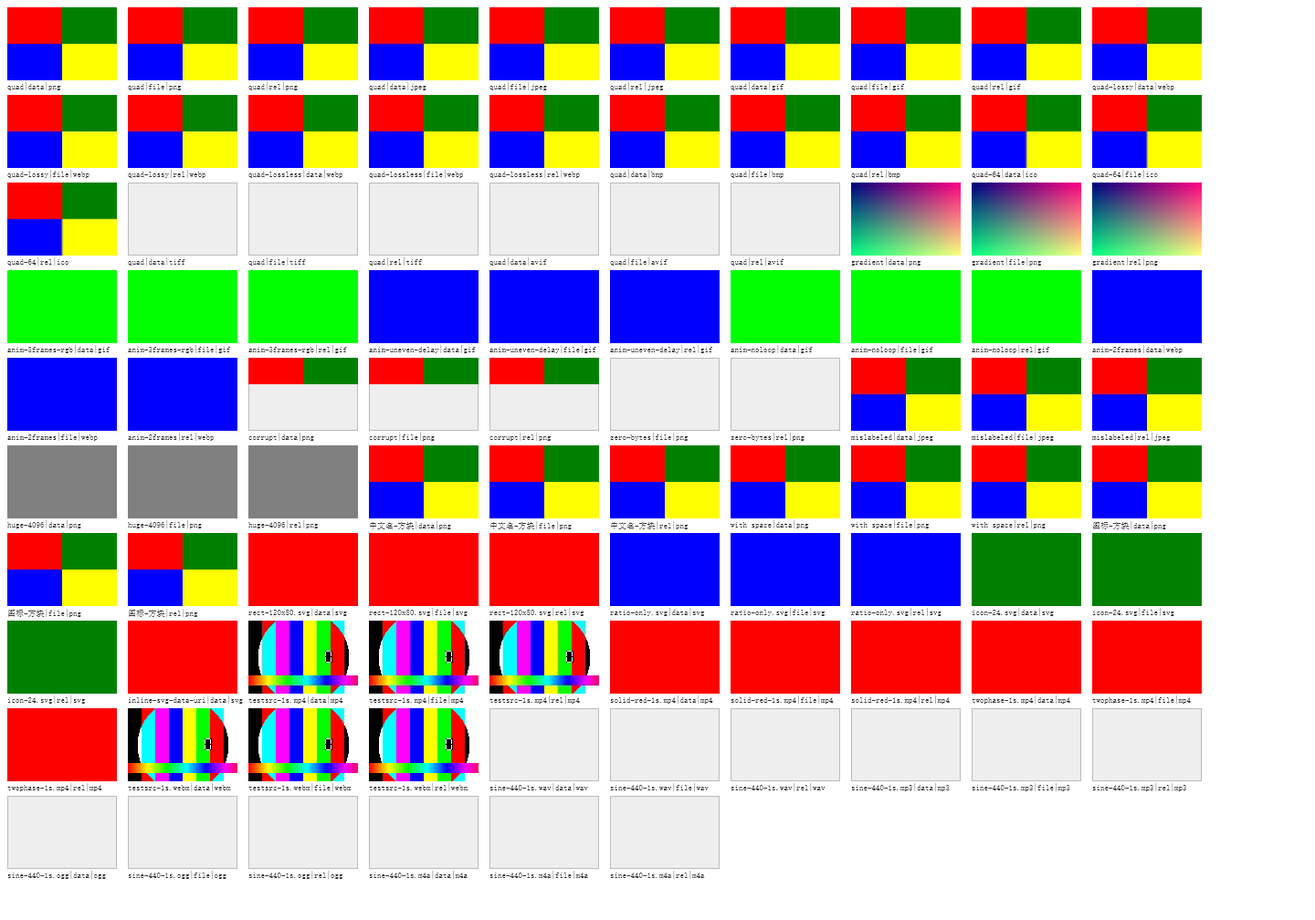
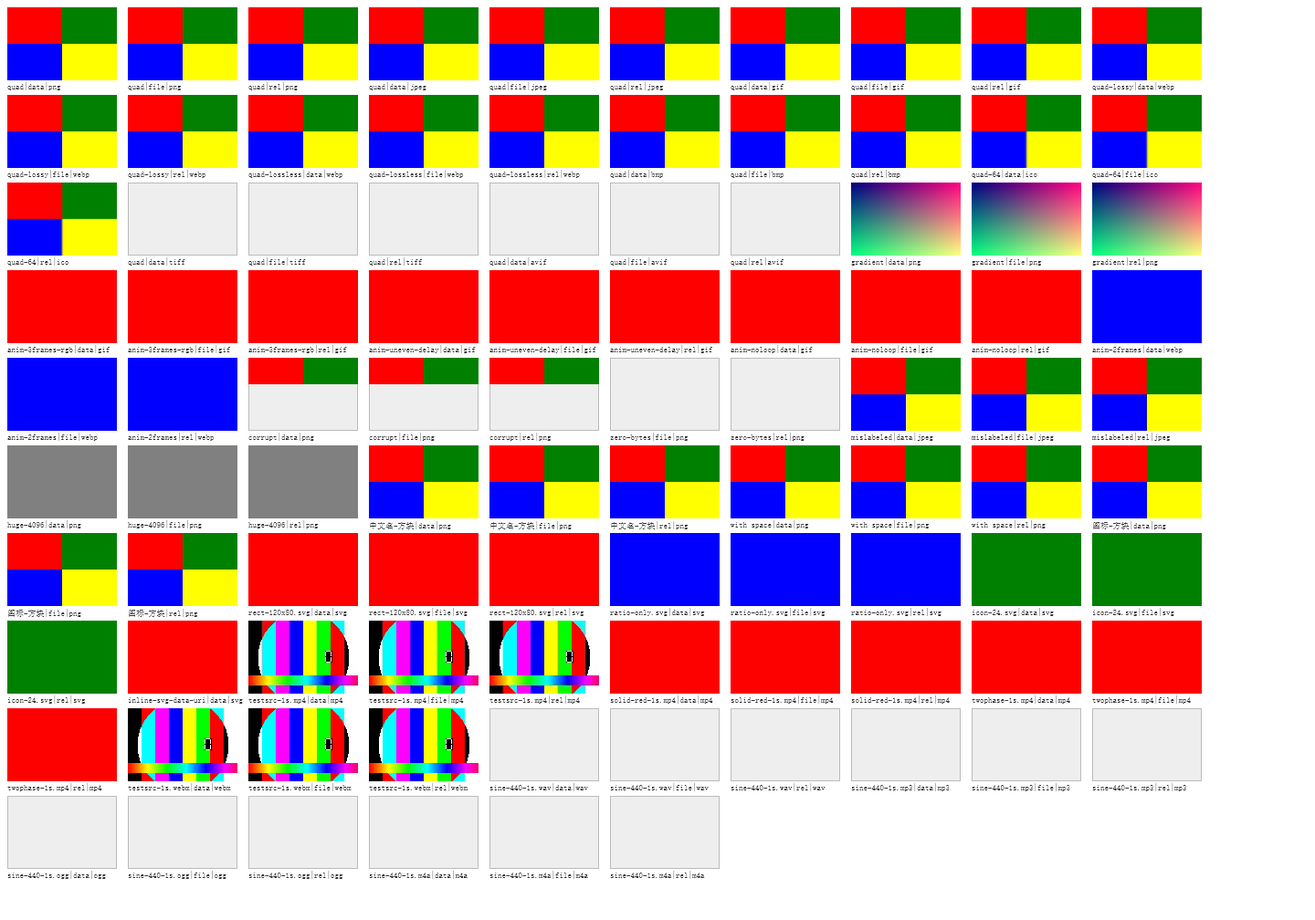
探针 Q7-C：动图连拍改为「按样本声明的帧时长」驱动采样（第 8 处测量伪影根本解法）
## 问题（§9.9 第 8 处测量伪影）
连拍此前是「全局调一个步长」——固定基步长 130/190ms + 固定抖动序列，对所有样本
一视同仁。洞在于**名义步长不成整数倍 ≠ 实际步长不成整数倍**（实际 = 名义 + 每步
渲染开销），`anim-uneven-delay.gif`（Delays=[50,200,100] ⇒ 周期 350ms）因此被锁相：
全量第 3 跑时它的 data/file/rel 三格同时报「最大差异 0」（L4→L3），而同轮其余动图全 L4。

## 修法（cmd/psai/mediaprobe.go，+65 行新函数）
新增 `mediaAnimSteps(man)`：**按样本自己声明的帧时长驱动**
- 数据源是 manifest 的 `delays` 字段（探针此前完全没用它）；
- 对每个**不同周期** P = Σ Delays 生成 3 个步长 P×r，r ∈ {0.37, 0.61, 0.83}——互不
  相同，且刻意避开 1/2、1/3、2/3 这类对称点（否则两帧样本互换相位后又落回同帧）；
  各再叠加互不相同的抖动（−17/+23/−9 ms）；
- 步长按周期**轮转排列**，使每个周期在整个采样窗口里都有 3 个独立的相位推进量；
- 窗口总长 ≈2.1s，远大于最长周期 400ms ⇒ **覆盖完整循环周期**；
- 旧的 130/190ms 固定步长退为**无动画样本时的回退分支**（该路径行为不变）。
- **判据不变**：`framesDiffer` 仍是「任意两帧不同」，真静止样本不受影响。

实测四种周期：`anim-3frames-rgb` / `anim-noloop` 300ms、`anim-uneven-delay` **350ms**、
`anim-2frames.webp` 400ms。

## 验收（连续 3 次全量跑 `cmd/psai -media`）
- 3 次日志均「**与基线一致（无等级下降）**」；
- **384 条等级零变化**（把三次报告的「配置×格式×样本×来源 → 等级」逐格比对，差异 0；
  等级分布恒为 L0=100 / L3=174 / L4=110）。
- 编译/静态检查：`go build ./...` 通过、`go vet ./cmd/psai/` 通过。

## ⚠ 未覆盖（如实记录，不含虚假收敛）
截图 `matrix-*.png` 的**动画帧相位抖动仍在**：它是在**固定的 `settleReal` 时刻**拍的
（静止态 1.5s、播放态 1.0s 后），该时刻与动图帧相位**解耦**、**不经过**连拍采样环节，
故本改动改不动它。实测三次跑动画格中心色仍蓝/绿/红摇摆。属**遗留项**（要稳定截图需让
截图时刻对齐帧边界，引擎未暴露「当前帧号」）。

## 文档（docs/media-format-verification-plan.md）
- §9.9「探测伪影（第 8 处）」行：由「根本解法**方向**」更新为「**已落地**」+ 实现要点与验收；
- §6.2 副作用②：**订正**此前「Q7-C 落地后应按帧收敛」的错误预测，写明截图抖动另源且未收敛；
- §10 的 Q7 行：② 由「未做（属另一轮）」更新为「已另轮落地」。

## 产物（同源：第 3 次跑）
[…]

Changed region(s): [[0.0, 0.2768, 0.8438, 0.3998]]

diff --git a/cmd/psai/mediaprobe.go b/cmd/psai/mediaprobe.go
@@ -680,25 +680,23 @@ func runMediaConfig(cfg mediaConfig, man *manifestDoc, cells []cell, matrixPath,
 	//   样本缺陷。audio 元素不参与动图判据，停掉它不影响任何已有判据。
 	stopAudioPlayback(wv, cells)
 	settleReal(wv, 300*time.Millisecond)
-	// 抖动步长：两轮基步长不同（130ms / 190ms），每步再叠加固定抖动，**相邻步长互不相等**
-	// ⇒ 相位不会每一步回到同一帧。判据本身不变（仍是「任意两帧不同」），真静止的样本
-	// 两轮都没有差异，不会被这层放宽。
-	const animShotCount = 6
-	animJitter := [animShotCount]time.Duration{0, 40, -30, 50, -20, 30}
-	animBase := [2]time.Duration{130 * time.Millisecond, 190 * time.Millisecond}
-	animFrames := make([][]byte, 0, animShotCount*2)
-	for round := 0; round < 2; round++ {
-		if round > 0 {
+	// ★ Q7-C（采样伪影根本解法，2026-10-07）：步长由**样本自己声明的帧时长**驱动，
+	//   不再是全局固定基步长（推导与取舍见 mediaAnimSteps 的说明）。判据不变。
+	animSteps := mediaAnimSteps(man)
+	if len(animSteps) == 0 { // 无动画样本（或 manifest 无 delays）：退回旧口径，行为不变
+		animSteps = []time.Duration{130 * time.Millisecond, 190 * time.Millisecond}
+	}
+	animFrames := make([][]byte, 0, len(animSteps)+1)
+	for i, d := range animSteps {
+		if i > 0 && i%6 == 0 { // 每 6 步让步一次：满负载时给主循环喘息（与旧版两轮让步等效）
 			settleReal(wv, 250*time.Millisecond)
 		}
-		for i := 0; i < animShotCount; i++ {
-			settleReal(wv, animBase[round]+animJitter[i]*time.Millisecond)
-			px, err := renderPixels(wv)
-			if err != nil {
-				return res, err
-			}
-			animFrames = append(animFrames, px)
+		settleReal(wv, d)
+		px, err := renderPixels(wv)
+		if err != nil {
+			return res, err
 		}
+		animFrames = append(animFrames, px)
 	}
 	probes3, _, err := collectPage(wv, cells)
 	if err != nil {
@@ -927,6 +925,71 @@ func settleWall(wv *webkit.WebView, d time.Duration) {
 		driveEventLoop(wv, int64(step/time.Millisecond))
 		time.Sleep(step)
 	}
+}
+
+// mediaAnimSteps 按**样本自己声明的帧时长**生成动图连拍步长（Q7-C：采样伪影根本解法）。
+//
+// 背景（§9.9 第 8 处测量伪影）：旧实现是「全局调一个步长」——基步长 130/190ms +
+// 固定抖动序列，对所有样本一视同仁。洞在于**名义步长不成整数倍 ≠ 实际步长不成整数倍**
+// （实际步长 = 名义步长 + 每步渲染开销），`anim-uneven-delay.gif`（Delays=[50,200,100]
+// ⇒ 周期 350ms）因此被锁相：全量第 3 跑时它的 data/file/rel 三格同时报「最大差异 0」
+// （L4→L3），而同轮其余动图全 L4。
+//
+// 现在改为「按样本声明的帧时长驱动」：对每个**不同周期** P = Σ Delays 生成 3 个步长
+// P×r，r ∈ {0.37, 0.61, 0.83}——互不相同，且刻意避开 1/2、1/3、2/3 这类对称点
+//
+//	（否则两帧样本互换相位后又落回同帧），各再叠加互不相同的抖动。步长按周期**轮转排列**，
+//	使每个周期在整个采样窗口里都有 3 个独立的相位推进量；窗口总长（≈2.1s）远大于最长
+//	周期（400ms）⇒ 覆盖完整循环周期。判据不变（framesDiffer 仍是「任意两帧不同」），
+//	真静止的样本依旧无差异。
+func mediaAnimSteps(man *manifestDoc) []time.Duration {
+	if man == nil {
+		return nil
+	}
+	const maxPeriods = 6 // 上限：周期种类过多时只取前几种，避免连拍窗口无限膨胀
+	var periods []time.Duration
+	seen := map[int64]bool{}
+	for _, s := range man.Samples {
+		if s.Kind != "animated" || len(s.Delays) == 0 {
+			continue
+		}
+		sum := 0
+		for _, d := range s.Delays {
+			sum += d
+		}
+		if sum <= 0 || seen[int64(sum)] {
+			continue
+		}
+		seen[int64(sum)] = true
+		periods = append(periods, time.Duration(sum)*time.Millisecond)
+		if len(periods) >= maxPeriods {
+			break
+		}
+	}
+	if len(periods) == 0 {
+		return nil
+	}
+	ratios := [3]float64{0.37, 0.61, 0.83}
+	jitter := [3]time.Duration{-17 * time.Millisecond, 23 * time.Millisecond, -9 * time.Millisecond}
+	perPeriod := make([][3]time.Duration, 0, len(periods))
+	for _, p := range periods {
+		var st [3]time.Duration
+		for i, r := range ratios {
+			d := time.Duration(float64(p)*r) + jitter[i]
+			if d < 40*time.Millisecond { // 下限：步长过短时渲染开销占主导，相位不可控
+				d = 40 * time.Millisecond
+			}
+			st[i] = d
+		}
+		perPeriod = append(perPeriod, st)
+	}
+	out := make([]time.Duration, 0, len(perPeriod)*len(ratios))
+	for round := 0; round < len(ratios); round++ { // 轮转：每个周期每轮贡献一个步长
+		for _, st := range perPeriod {
+			out = append(out, st[round])
+		}
+	}
+	return out
 }
 
 func renderPixels(wv *webkit.WebView) ([]byte, error) {

diff --git a/dev/media/out/report.md b/dev/media/out/report.md
@@ -1,8 +1,8 @@
-# 媒体格式真实可用性报告（2026-10-07 22:00 bc62320）
+# 媒体格式真实可用性报告（2026-10-07 22:10 9e1116d）
 
 ## 环境
 
-配置：Browser / Toolkit+DenyExternal / Toolkit+AllowHostResolved / Toolkit+AllowAll ｜ 引擎：bc62320 ｜ 样本：本地脚本生成、不入库（决策 5）｜ 模型：L0–L4（文档 §2）
+配置：Browser / Toolkit+DenyExternal / Toolkit+AllowHostResolved / Toolkit+AllowAll ｜ 引擎：9e1116d ｜ 样本：本地脚本生成、不入库（决策 5）｜ 模型：L0–L4（文档 §2）
 
 复现：`python dev/media/gen_samples.py` → `cmd/psai -media`（本机按需，不入 CI 门禁——决策 6）
 
@@ -257,14 +257,14 @@
 | Toolkit+DenyExternal | svg | rect-120x80.svg | rel | ❌ | ❌ | ❌ | ❌ | — | **L0** | 资源策略 deny-external 拒绝该引用（预期，非缺陷） |
 | Toolkit+AllowHostResolved | svg | rect-120x80.svg | rel | ✅ | ✅ | ✅ | ✅ | — | **L3** |  |
 | Toolkit+AllowAll | svg | rect-120x80.svg | rel | ✅ | ✅ | ✅ | ✅ | — | **L3** |  |
-| Browser | m4a | sine-440-1s.m4a | data | ✅ | ✅ | — | ✅ | — | **L4** | 音频输出：交付 49041 帧、PCM 主峰 439.88Hz（期望 440Hz，判据 A）；play() 后 500ms currentTime=0.47s、结束时 1.00s（TC-M-602） |
+| Browser | m4a | sine-440-1s.m4a | data | ✅ | ✅ | — | ✅ | — | **L4** | 音频输出：交付 49041 帧、PCM 主峰 439.88Hz（期望 440Hz，判据 A）；play() 后 500ms currentTime=0.42s、结束时 1.00s（TC-M-602） |
 | Toolkit+DenyExternal | m4a | sine-440-1s.m4a | data | ✅ | ✅ | — | ✅ | — | **L4** | 音频输出：交付 49041 帧、PCM 主峰 439.88Hz（期望 440Hz，判据 A）；play() 后 500ms currentTime=1.00s、结束时 1.00s（TC-M-602） |
-| Toolkit+AllowHostResolved | m4a | sine-440-1s.m4a | data | ✅ | ✅ | — | ✅ | — | **L4** | 音频输出：交付 49041 帧、PCM 主峰 439.88Hz（期望 440Hz，判据 A）；play() 后 500ms currentTime=0.49s、结束时 1.00s（TC-M-602） |
-| Toolkit+AllowAll | m4a | sine-440-1s.m4a | data | ✅ | ✅ | — | ✅ | — | **L4** | 音频输出：交付 49041 帧、PCM 主峰 439.88Hz（期望 440Hz，判据 A）；play() 后 500ms currentTime=0.49s、结束时 1.00s（TC-M-602） |
-| Browser | m4a | sine-440-1s.m4a | file | ✅ | ✅ | — | ✅ | — | **L4** | 音频输出：交付 49041 帧、PCM 主峰 439.88Hz（期望 440Hz，判据 A）；play() 后 500ms currentTime=0.27s、结束时 1.00s（TC-M-602） |
+| Toolkit+AllowHostResolved | m4a | sine-440-1s.m4a | data | ✅ | ✅ | — | ✅ | — | **L4** | 音频输出：交付 49041 帧、PCM 主峰 439.88Hz（期望 440Hz，判据 A）；play() 后 500ms currentTime=0.42s、结束时 1.00s（TC-M-602） |
+| Toolkit+AllowAll | m4a | sine-440-1s.m4a | data | ✅ | ✅ | — | ✅ | — | **L4** | 音频输出：交付 49041 帧、PCM 主峰 439.88Hz（期望 440Hz，判据 A）；play() 后 500ms currentTime=0.41s、结束时 1.00s（TC-M-602） |
+| Browser | m4a | sine-440-1s.m4a | file | ✅ | ✅ | — | ✅ | — | **L4** | 音频输出：交付 49041 帧、PCM 主峰 439.88Hz（期望 440Hz，判据 A）；play() 后 500ms currentTime=0.23s、结束时 1.00s（TC-M-602） |
 | Toolkit+DenyExternal | m4a | sine-440-1s.m4a | file | ❌ | ❌ | — | ❌ | — | **L0** | 资源策略 deny-external 拒绝该引用（预期，非缺陷）；实测元素 error.code=4（MEDIA_ERR_SRC_NOT_SUPPORTED） |
-| Toolkit+AllowHostResolved | m4a | sine-440-1s.m4a | file | ✅ | ✅ | — | ✅ | — | **L4** | 音频输出：交付 49041 帧、PCM 主峰 439.88Hz（期望 440Hz，判据 A）；play() 后 500ms currentTime=0.26s、结束时 1.00s（TC-M-602） |
-| Toolkit+AllowAll | m4a | sine-440-1s.m4a | file | ✅ | ✅ | — | ✅ | — | **L4** | 音频输出：交付 49041 帧、PCM 主峰 439.88Hz（期望 440Hz，判据 A）；play() 后 500ms currentTime=0.29s、结束时 1.00s（TC-M-602） |
+| Toolkit+AllowHostResolved | m4a | sine-440-1s.m4a | file | ✅ | ✅ | — | ✅ | — | **L4** | 音频输出：交付 49041 帧、PCM 主峰 439.88Hz（期望 440Hz，判据 A）；play() 后 500ms currentTime=0.29s、结束时 1.00s（TC-M-602） |
+| Toolkit+AllowAll | m4a | sine-440-1s.m4a | file | ✅ | ✅ | — | ✅ | — | **L4** | 音频输出：交付 49041 帧、PCM 主峰 439.88Hz（期望 440Hz，判据 A）；play() 后 500ms currentTime=0.28s、结束时 1.00s（TC-M-602） |
 | Browser | m4a | sine-440-1s.m4a | rel | ✅ | ✅ | — | ✅ | — | **L4** | 音频输出：交付 49041 帧、PCM 主峰 439.88Hz（期望 440Hz，判据 A）；play() 后 500ms currentTime=0.00s、结束时 1.00s（TC-M-602） |
 | Toolkit+DenyExternal | m4a | sine-440-1s.m4a | rel | ❌ | ❌ | — | ❌ | — | **L0** | 资源策略 deny-external 拒绝该引用（预期，非缺陷）；实测元素 error.code=4（MEDIA_ERR_SRC_NOT_SUPPORTED） |
 | Toolkit+AllowHostResolved | m4a | sine-440-1s.m4a | rel | ✅ | ✅ | — | ✅ | — | **L4** | 音频输出：交付 49041 帧、PCM 主峰 439.88Hz（期望 440Hz，判据 A）；play() 后 500ms currentTime=0.00s、结束时 1.00s（TC-M-602） |
@@ -281,18 +281,18 @@
 | Toolkit+DenyExternal | mp3 | sine-440-1s.mp3 | rel | ❌ | ❌ | — | ❌ | — | **L0** | 资源策略 deny-external 拒绝该引用（预期，非缺陷）；实测元素 error.code=4（MEDIA_ERR_SRC_NOT_SUPPORTED） |
 | Toolkit+AllowHostResolved | mp3 | sine-440-1s.mp3 | rel | ✅ | ✅ | — | ✅ | — | **L4** | 音频输出：交付 48000 帧、PCM 主峰 439.88Hz（期望 440Hz，判据 A）；play() 后 500ms currentTime=1.00s、结束时 1.00s（TC-M-602） |
 | Toolkit+AllowAll | mp3 | sine-440-1s.mp3 | rel | ✅ | ✅ | — | ✅ | — | **L4** | 音频输出：交付 48000 帧、PCM 主峰 439.88Hz（期望 440Hz，判据 A）；play() 后 500ms currentTime=1.00s、结束时 1.00s（TC-M-602） |
-| Browser | ogg | sine-440-1s.ogg | data | ✅ | ✅ | — | ✅ | — | **L4** | 音频输出：交付 47861 帧、PCM 主峰 439.87Hz（期望 440Hz，判据 A）；play() 后 500ms currentTime=1.00s、结束时 1.00s（TC-M-602） |
+| Browser | ogg | sine-440-1s.ogg | data | ✅ | ✅ | — | ✅ | — | **L4** | 音频输出：交付 47861 帧、PCM 主峰 439.87Hz（期望 440Hz，判据 A）；play() 后 500ms currentTime=0.86s、结束时 1.00s（TC-M-602） |
 | Toolkit+DenyExternal | ogg | sine-440-1s.ogg | data | ✅ | ✅ | — | ✅ | — | **L4** | 音频输出：交付 47861 帧、PCM 主峰 439.87Hz（期望 440Hz，判据 A）；play() 后 500ms currentTime=1.00s、结束时 1.00s（TC-M-602） |
-| Toolkit+AllowHostResolved | ogg | sine-440-1s.ogg | data | ✅ | ✅ | — | ✅ | — | **L4** | 音频输出：交付 47861 帧、PCM 主峰 439.87Hz（期望 440Hz，判据 A）；play() 后 500ms currentTime=1.00s、结束时 1.00s（TC-M-602） |
-| Toolkit+AllowAll | ogg | sine-440-1s.ogg | data | ✅ | ✅ | — | ✅ | — | **L4** | 音频输出：交付 47861 帧、PCM 主峰 439.87Hz（期望 440Hz，判据 A）；play() 后 500ms currentTime=1.00s、结束时 1.00s（TC-M-602） |
-| Browser | ogg | sine-440-1s.ogg | file | ✅ | ✅ | — | ✅ | — | **L4** | 音频输出：交付 47861 帧、PCM 主峰 439.87Hz（期望 440Hz，判据 A）；play() 后 500ms currentTime=0.82s、结束时 1.00s（TC-M-602） |
+| Toolkit+AllowHostResolved | ogg | sine-440-1s.ogg | data | ✅ | ✅ | — | ✅ | — | **L4** | 音频输出：交付 47861 帧、PCM 主峰 439.87Hz（期望 440Hz，判据 A）；play() 后 500ms currentTime=0.88s、结束时 1.00s（TC-M-602） |
+| Toolkit+AllowAll | ogg | sine-440-1s.ogg | data | ✅ | ✅ | — | ✅ | — | **L4** | 音频输出：交付 47861 帧、PCM 主峰 439.87Hz（期望 440Hz，判据 A）；play() 后 500ms currentTime=0.97s、结束时 1.00s（TC-M-602） |
+| Browser | ogg | sine-440-1s.ogg | file | ✅ | ✅ | — | ✅ | — | **L4** | 音频输出：交付 47861 帧、PCM 主峰 439.87Hz（期望 440Hz，判据 A）；play() 后 500ms currentTime=0.73s、结束时 1.00s（TC-M-602） |
 | Toolkit+DenyExternal | ogg | sine-440-1s.ogg | file | ❌ | ❌ | — | ❌ | — | **L0** | 资源策略 deny-external 拒绝该引用（预期，非缺陷）；实测元素 error.code=4（MEDIA_ERR_SRC_NOT_SUPPORTED） |
-| Toolkit+AllowHostResolved | ogg | sine-440-1s.ogg | file | ✅ | ✅ | — | ✅ | — | **L4** | 音频输出：交付 47861 帧、PCM 主峰 439.87Hz（期望 440Hz，判据 A）；play() 后 500ms currentTime=0.90s、结束时 1.00s（TC-M-602） |
-| Toolkit+AllowAll | ogg | sine-440-1s.ogg | file | ✅ | ✅ | — | ✅ | — | **L4** | 音频输出：交付 47861 帧、PCM 主峰 439.87Hz（期望 440Hz，判据 A）；play() 后 500ms currentTime=0.91s、结束时 1.00s（TC-M-602） |
-| Browser | ogg | sine-440-1s.ogg | rel | ✅ | ✅ | — | ✅ | — | **L4** | 音频输出：交付 47861 帧、PCM 主峰 439.87Hz（期望 440Hz，判据 A）；play() 后 500ms currentTime=0.66s、结束时 1.00s（TC-M-602） |
+| Toolkit+AllowHostResolved | ogg | sine-440-1s.ogg | file | ✅ | ✅ | — | ✅ | — | **L4** | 音频输出：交付 47861 帧、PCM 主峰 439.87Hz（期望 440Hz，判据 A）；play() 后 500ms currentTime=0.72s、结束时 1.00s（TC-M-602） |
+| Toolkit+AllowAll | ogg | sine-440-1s.ogg | file | ✅ | ✅ | — | ✅ | — | **L4** | 音频输出：交付 47861 帧、PCM 主峰 439.87Hz（期望 440Hz，判据 A）；play() 后 500ms currentTime=0.79s、结束时 1.00s（TC-M-602） |
+| Browser | ogg | sine-440-1s.ogg | rel | ✅ | ✅ | — | ✅ | — | **L4** | 音频输出：交付 47861 帧、PCM 主峰 439.87Hz（期望 440Hz，判据 A）；play() 后 500ms currentTime=0.59s、结束时 1.00s（TC-M-602） |
 | Toolkit+DenyExternal | ogg | sine-440-1s.ogg | rel | ❌ | ❌ | — | ❌ | — | **L0** | 资源策略 deny-external 拒绝该引用（预期，非缺陷）；实测元素 error.code=4（MEDIA_ERR_SRC_NOT_SUPPORTED） |
-| Toolkit+AllowHostResolved | ogg | sine-440-1s.ogg | rel | ✅ | ✅ | — | ✅ | — | **L4** | 音频输出：交付 47861 帧、PCM 主峰 439.87Hz（期望 440Hz，判据 A）；play() 后 500ms currentTime=0.71s、结束时 1.00s（TC-M-602） |
-| Toolkit+AllowAll | ogg | sine-440-1s.ogg | rel | ✅ | ✅ | — | ✅ | — | **L4** | 音频输出：交付 47861 帧、PCM 主峰 439.87Hz（期望 440Hz，判据 A）；play() 后 500ms currentTime=0.72s、结束时 1.00s（TC-M-602） |
+| Toolkit+AllowHostResolved | ogg | sine-440-1s.ogg | rel | ✅ | ✅ | — | ✅ | — | **L4** | 音频输出：交付 47861 帧、PCM 主峰 439.87Hz（期望 440Hz，判据 A）；play() 后 500ms currentTime=0.57s、结束时 1.00s（TC-M-602） |
+| Toolkit+AllowAll | ogg | sine-440-1s.ogg | rel | ✅ | ✅ | — | ✅ | — | **L4** | 音频输出：交付 47861 帧、PCM 主峰 439.87Hz（期望 440Hz，判据 A）；play() 后 500ms currentTime=0.59s、结束时 1.00s（TC-M-602） |
 | Browser | wav | sine-440-1s.wav | data | ✅ | ✅ | — | ✅ | — | **L4** | 音频输出：交付 48000 帧、PCM 主峰 439.88Hz（期望 440Hz，判据 A）；play() 后 500ms currentTime=1.00s、结束时 1.00s（TC-M-602） |
 | Toolkit+DenyExternal | wav | sine-440-1s.wav | data | ✅ | ✅ | — | ✅ | — | **L4** | 音频输出：交付 48000 帧、PCM 主峰 439.88Hz（期望 440Hz，判据 A）；play() 后 500ms currentTime=1.00s、结束时 1.00s（TC-M-602） |
 | Toolkit+AllowHostResolved | wav | sine-440-1s.wav | data | ✅ | ✅ | — | ✅ | — | **L4** | 音频输出：交付 48000 帧、PCM 主峰 439.88Hz（期望 440Hz，判据 A）；play() 后 500ms currentTime=1.00s、结束时 1.00s（TC-M-602） |
@@ -305,18 +305,18 @@
 | Toolkit+DenyExternal | wav | sine-440-1s.wav | rel | ❌ | ❌ | — | ❌ | — | **L0** | 资源策略 deny-external 拒绝该引用（预期，非缺陷）；实测元素 error.code=4（MEDIA_ERR_SRC_NOT_SUPPORTED） |
 | Toolkit+AllowHostResolved | wav | sine-440-1s.wav | rel | ✅ | ✅ | — | ✅ | — | **L4** | 音频输出：交付 48000 帧、PCM 主峰 439.88Hz（期望 440Hz，判据 A）；play() 后 500ms currentTime=1.00s、结束时 1.00s（TC-M-602） |
 | Toolkit+AllowAll | wav | sine-440-1s.wav | rel | ✅ | ✅ | — | ✅ | — | **L4** | 音频输出：交付 48000 帧、PCM 主峰 439.88Hz（期望 440Hz，判据 A）；play() 后 500ms currentTime=1.00s、结束时 1.00s（TC-M-602） |
-| Browser | mp4 | solid-red-1s.mp4 | data | ✅ | ✅ | ✅ | ✅ | ❌ | **L3** | 单色视频：帧色恒定，动画判据不适用（画面正确即足）；所有帧采样点相同（最大差异 0，共 14 帧） |
-| Toolkit+DenyExternal | mp4 | solid-red-1s.mp4 | data | ✅ | ✅ | ✅ | ✅ | ❌ | **L3** | 单色视频：帧色恒定，动画判据不适用（画面正确即足）；所有帧采样点相同（最大差异 0，共 14 帧） |
-| Toolkit+AllowHostResolved | mp4 | solid-red-1s.mp4 | data | ✅ | ✅ | ✅ | ✅ | ❌ | **L3** | 单色视频：帧色恒定，动画判据不适用（画面正确即足）；所有帧采样点相同（最大差异 0，共 14 帧） |
-| Toolkit+AllowAll | mp4 | solid-red-1s.mp4 | data | ✅ | ✅ | ✅ | ✅ | ❌ | **L3** | 单色视频：帧色恒定，动画判据不适用（画面正确即足）；所有帧采样点相同（最大差异 0，共 14 帧） |
-| Browser | mp4 | solid-red-1s.mp4 | file | ✅ | ✅ | ✅ | ✅ | ❌ | **L3** | 单色视频：帧色恒定，动画判据不适用（画面正确即足）；所有帧采样点相同（最大差异 0，共 14 帧） |
+| Browser | mp4 | solid-red-1s.mp4 | data | ✅ | ✅ | ✅ | ✅ | ❌ | **L3** | 单色视频：帧色恒定，动画判据不适用（画面正确即足）；所有帧采样点相同（最大差异 0，共 11 帧） |
+| Toolkit+DenyExternal | mp4 | solid-red-1s.mp4 | data | ✅ | ✅ | ✅ | ✅ | ❌ | **L3** | 单色视频：帧色恒定，动画判据不适用（画面正确即足）；所有帧采样点相同（最大差异 0，共 11 帧） |
+| Toolkit+AllowHostResolved | mp4 | solid-red-1s.mp4 | data | ✅ | ✅ | ✅ | ✅ | ❌ | **L3** | 单色视频：帧色恒定，动画判据不适用（画面正确即足）；所有帧采样点相同（最大差异 0，共 11 帧） |
+| Toolkit+AllowAll | mp4 | solid-red-1s.mp4 | data | ✅ | ✅ | ✅ | ✅ | ❌ | **L3** | 单色视频：帧色恒定，动画判据不适用（画面正确即足）；所有帧采样点相同（最大差异 0，共 11 帧） |
+| Browser | mp4 | solid-red-1s.mp4 | file | ✅ | ✅ | ✅ | ✅ | ❌ | **L3** | 单色视频：帧色恒定，动画判据不适用（画面正确即足）；所有帧采样点相同（最大差异 0，共 11 帧） |
 | Toolkit+DenyExternal | mp4 | solid-red-1s.mp4 | file | ❌ | ❌ | ❌ | ❌ | ❌ | **L0** | 资源策略 deny-external 拒绝该引用（预期，非缺陷）；实测元素 error.code=4（MEDIA_ERR_SRC_NOT_SUPPORTED） |
-| Toolkit+AllowHostResolved | mp4 | solid-red-1s.mp4 | file | ✅ | ✅ | ✅ | ✅ | ❌ | **L3** | 单色视频：帧色恒定，动画判据不适用（画面正确即足）；所有帧采样点相同（最大差异 0，共 14 帧） |
-| Toolkit+AllowAll | mp4 | solid-red-1s.mp4 | file | ✅ | ✅ | ✅ | ✅ | ❌ | **L3** | 单色视频：帧色恒定，动画判据不适用（画面正确即足）；所有帧采样点相同（最大差异 0，共 14 帧） |
-| Browser | mp4 | solid-red-1s.mp4 | rel | ✅ | ✅ | ✅ | ✅ | ❌ | **L3** | 单色视频：帧色恒定，动画判据不适用（画面正确即足）；所有帧采样点相同（最大差异 0，共 14 帧） |
+| Toolkit+AllowHostResolved | mp4 | solid-red-1s.mp4 | file | ✅ | ✅ | ✅ | ✅ | ❌ | **L3** | 单色视频：帧色恒定，动画判据不适用（画面正确即足）；所有帧采样点相同（最大差异 0，共 11 帧） |
+| Toolkit+AllowAll | mp4 | solid-red-1s.mp4 | file | ✅ | ✅ | ✅ | ✅ | ❌ | **L3** | 单色视频：帧色恒定，动画判据不适用（画面正确即足）；所有帧采样点相同（最大差异 0，共 11 帧） |
+| Browser | mp4 | solid-red-1s.mp4 | rel | ✅ | ✅ | ✅ | ✅ | ❌ | **L3** | 单色视频：帧色恒定，动画判据不适用（画面正确即足）；所有帧采样点相同（最大差异 0，共 11 帧） |
 | Toolkit+DenyExternal | mp4 | solid-red-1s.mp4 | rel | ❌ | ❌ | ❌ | ❌ | ❌ | **L0** | 资源策略 deny-external 拒绝该引用（预期，非缺陷）；实测元素 error.code=4（MEDIA_ERR_SRC_NOT_SUPPORTED） |
-| Toolkit+AllowHostResolved | mp4 | solid-red-1s.mp4 | rel | ✅ | ✅ | ✅ | ✅ | ❌ | **L3** | 单色视频：帧色恒定，动画判据不适用（画面正确即足）；所有帧采样点相同（最大差异 0，共 14 帧） |
-| Toolkit+AllowAll | mp4 | solid-red-1s.mp4 | rel | ✅ | ✅ | ✅ | ✅ | ❌ | **L3** | 单色视频：帧色恒定，动画判据不适用（画面正确即足）；所有帧采样点相同（最大差异 0，共 14 帧） |
+| Toolkit+AllowHostResolved | mp4 | solid-red-1s.mp4 | rel | ✅ | ✅ | ✅ | ✅ | ❌ | **L3** | 单色视频：帧色恒定，动画判据不适用（画面正确即足）；所有帧采样点相同（最大差异 0，共 11 帧） |
+| Toolkit+AllowAll | mp4 | solid-red-1s.mp4 | rel | ✅ | ✅ | ✅ | ✅ | ❌ | **L3** | 单色视频：帧色恒定，动画判据不适用（画面正确即足）；所有帧采样点相同（最大差异 0，共 11 帧） |
 | Browser | mp4 | testsrc-1s.mp4 | data | ✅ | ✅ | ✅ | ✅ | ✅ | **L4** |  |
 | Toolkit+DenyExternal | mp4 | testsrc-1s.mp4 | data | ✅ | ✅ | ✅ | ✅ | ✅ | **L4** |  |
 | Toolkit+AllowHostResolved | mp4 | testsrc-1s.mp4 | data | ✅ | ✅ | ✅ | ✅ | ✅ | **L4** |  |
@@ -479,7 +479,7 @@
 
 ## 策略一致性（决策 1 · TC-M-905）
 
-- 全图差异像素比例：**5.9524%**（其中 12 个动画样本格未计入下方判定）
+- 全图差异像素比例：**3.9683%**（其中 12 个动画样本格未计入下方判定）
 - 排除动画样本格后：**0.0000%** —— ✅ 非动画区域逐像素一致
 
 > **归因**：全图差异 **100% 落在动画样本格内**（`anim-noloop.gif`、`anim-2frames.webp` 等）——
@@ -550,8 +550,8 @@
 
 - 设备：Voicemeeter Out B3 (VB-Audio Voicemeeter VAIO)
 - 结果：**mismatch**
-- 录回音频主峰：99.6 Hz（幅度 0.201）
-- 说明：主峰 99.6Hz 偏离期望 440Hz（该设备的输入未路由到系统输出）
+- 录回音频主峰：4634.8 Hz（幅度 0.032）
+- 说明：主峰 4634.8Hz 偏离期望 440Hz（该设备的输入未路由到系统输出）
 
 ### TC-M-602 定点：播放时钟（音频为主时钟）
 
@@ -567,11 +567,11 @@
 | Browser | sine-440-1s.mp3 | data | 1.00 | 1.00 | 1.00 | 1.00 | ✅ |
 | Browser | sine-440-1s.mp3 | file | 1.00 | 1.00 | 1.00 | 1.00 | ✅ |
 | Browser | sine-440-1s.mp3 | rel | 1.00 | 1.00 | 1.00 | 1.00 | ✅ |
-| Browser | sine-440-1s.ogg | data | 1.00 | 1.00 | 1.00 | 1.00 | ✅ |
-| Browser | sine-440-1s.ogg | file | 0.87 | 0.82 | 0.87 | 1.00 | ✅ |
-| Browser | sine-440-1s.ogg | rel | 0.71 | 0.66 | 0.71 | 1.00 | ✅ |
-| Browser | sine-440-1s.m4a | data | 0.52 | 0.47 | 0.52 | 1.00 | ✅ |
-| Browser | sine-440-1s.m4a | file | 0.33 | 0.27 | 0.33 | 1.00 | ✅ |
+| Browser | sine-440-1s.ogg | data | 0.91 | 0.86 | 0.91 | 1.00 | ✅ |
+| Browser | sine-440-1s.ogg | file | 0.78 | 0.73 | 0.78 | 1.00 | ✅ |
+| Browser | sine-440-1s.ogg | rel | 0.63 | 0.59 | 0.63 | 1.00 | ✅ |
+| Browser | sine-440-1s.m4a | data | 0.45 | 0.42 | 0.45 | 1.00 | ✅ |
+| Browser | sine-440-1s.m4a | file | 0.29 | 0.23 | 0.29 | 1.00 | ✅ |
 | Browser | sine-440-1s.m4a | rel | 0.15 | 0.00 | 0.15 | 1.00 | ✅ |
 | Toolkit+DenyExternal | sine-440-1s.wav | data | 1.00 | 1.00 | 1.00 | 1.00 | ✅ |
 | Toolkit+DenyExternal | sine-440-1s.wav | file | 0.00 | 0.00 | 0.00 | 0.00 | — |
@@ -591,23 +591,23 @@
 | Toolkit+AllowHostResolved | sine-440-1s.mp3 | data | 1.00 | 1.00 | 1.00 | 1.00 | ✅ |
 | Toolkit+AllowHostResolved | sine-440-1s.mp3 | file | 1.00 | 1.00 | 1.00 | 1.00 | ✅ |
 | Toolkit+AllowHostResolved | sine-440-1s.mp3 | rel | 1.00 | 1.00 | 1.00 | 1.00 | ✅ |
-| Toolkit+AllowHostResolved | sine-440-1s.ogg | data | 1.00 | 1.00 | 1.00 | 1.00 | ✅ |
-| Toolkit+AllowHostResolved | sine-440-1s.ogg | file | 0.95 | 0.90 | 0.95 | 1.00 | ✅ |
-| Toolkit+AllowHostResolved | sine-440-1s.ogg | rel | 0.76 | 0.71 | 0.76 | 1.00 | ✅ |
-| Toolkit+AllowHostResolved | sine-440-1s.m4a | data | 0.54 | 0.49 | 0.54 | 1.00 | ✅ |
-| Toolkit+AllowHostResolved | sine-440-1s.m4a | file | 0.34 | 0.26 | 0.34 | 1.00 | ✅ |
-| Toolkit+AllowHostResolved | sine-440-1s.m4a | rel | 0.15 | 0.00 | 0.15 | 1.00 | ✅ |
+| Toolkit+AllowHostResolved | sine-440-1s.ogg | data | 0.94 | 0.88 | 0.94 | 1.00 | ✅ |
+| Toolkit+AllowHostResolved | sine-440-1s.ogg | file | 0.79 | 0.72 | 0.79 | 1.00 | ✅ |
+| Toolkit+AllowHostResolved | sine-440-1s.ogg | rel | 0.65 | 0.57 | 0.65 | 1.00 | ✅ |
+| Toolkit+AllowHostResolved | sine-440-1s.m4a | data | 0.49 | 0.42 | 0.49 | 1.00 | ✅ |
+| Toolkit+AllowHostResolved | sine-440-1s.m4a | file | 0.34 | 0.29 | 0.34 | 1.00 | ✅ |
+| Toolkit+AllowHostResolved | sine-440-1s.m4a | rel | 0.17 | 0.00 | 0.17 | 1.00 | ✅ |
 | Toolkit+AllowAll | sine-440-1s.wav | data | 1.00 | 1.00 | 1.00 | 1.00 | ✅ |
 | Toolkit+AllowAll | sine-440-1s.wav | file | 1.00 | 1.00 | 1.00 | 1.00 | ✅ |
 | Toolkit+AllowAll | sine-440-1s.wav | rel | 1.00 | 1.00 | 1.00 | 1.00 | ✅ |
 | Toolkit+AllowAll | sine-440-1s.mp3 | data | 1.00 | 1.00 | 1.00 | 1.00 | ✅ |
 | Toolkit+AllowAll | sine-440-1s.mp3 | file | 1.00 | 1.00 | 1.00 | 1.00 | ✅ |
 | Toolkit+AllowAll | sine-440-1s.mp3 | rel | 1.00 | 1.00 | 1.00 | 1.00 | ✅ |
-| Toolkit+AllowAll | sine-440-1s.ogg | data | 1.00 | 1.00 | 1.00 | 1.00 | ✅ |
-| Toolkit+AllowAll | sine-440-1s.ogg | file | 0.96 | 0.91 | 0.96 | 1.00 | ✅ |
-| Toolkit+AllowAll | sine-440-1s.ogg | rel | 0.77 | 0.72 | 0.77 | 1.00 | ✅ |
-| Toolkit+AllowAll | sine-440-1s.m4a | data | 0.53 | 0.49 | 0.53 | 1.00 | ✅ |
-| Toolkit+AllowAll | sine-440-1s.m4a | file | 0.35 | 0.29 | 0.35 | 1.00 | ✅ |
+| Toolkit+AllowAll | sine-440-1s.ogg | data | 1.00 | 0.97 | 1.00 | 1.00 | ✅ |
+| Toolkit+AllowAll | sine-440-1s.ogg | file | 0.84 | 0.79 | 0.84 | 1.00 | ✅ |
+| Toolkit+AllowAll | sine-440-1s.ogg | rel | 0.63 | 0.59 | 0.63 | 1.00 | ✅ |
+| Toolkit+AllowAll | sine-440-1s.m4a | data | 0.46 | 0.41 | 0.46 | 1.00 | ✅ |
+| Toolkit+AllowAll | sine-440-1s.m4a | file | 0.31 | 0.28 | 0.31 | 1.00 | ✅ |
 | Toolkit+AllowAll | sine-440-1s.m4a | rel | 0.15 | 0.00 | 0.15 | 1.00 | ✅ |
 
 > 容差 **±0.2s**（采样开销 + 设备启动延迟）。`data:` 来源没有本地路径（宿主解不了码），采样时无 PCM、时钟未起步——不在判据 A 的覆盖范围，保持 L1。

diff --git a/docs/media-format-verification-plan.md b/docs/media-format-verification-plan.md
@@ -457,7 +457,11 @@ webkit/mode.go:66                             allowsExternalURLs()
    `matrix-Toolkit-DenyExternal.png` 各 **1.98%** 像素变化，两张播放态各 **5.95%**，最大通道差 **255**
    （整格换色）；经逐格定位，差异格正是 `anim-uneven-delay|data|file|rel|gif` 等**动画格**——即 §9.9 的
    **动图采样伪影**，非解码缺陷（同页 `quad.*` 等静止样本逐像素不变）。
-   等级判定与基线比对（§6.4）不经这些数值/像素，**不受影响**；②在 Q7-C（按样本声明帧时长驱动采样）落地后应按帧收敛。
+   等级判定与基线比对（§6.4）不经这些数值/像素，**不受影响**。⚠ **订正（2026-10-07 实测）**：Q7-C
+   落地后**等级判定确已零变化**（连续 3 次全量跑、384 条等级零漂移），但②**并未收敛**——动画格像素
+   仍在蓝/绿/红之间摇摆。根因：截图是在**固定的 `settleReal` 时刻**拍的（静止态 1.5s、播放态 1.0s 后），
+   该时刻与该动图的帧相位**解耦**，**不经过**连拍采样环节，故 Q7-C 改不动它。要稳定截图需让截图时刻
+   **对齐帧边界**（引擎未暴露「当前帧号」，无法做到），属**遗留项**。
 2. **媒体验证子命令** `cmd/psai -media`（或新 `cmd/mediaprobe`）：
    - **四配置**（Browser / Toolkit+DenyExternal / Toolkit+AllowHostResolved / Toolkit+AllowAll）各跑一遍矩阵页，并与 **Edge 对照**（决策 2），产出「引擎 / Edge」双列等级；
    - 每格式产出：几何 JSON、`complete/naturalWidth`、事件日志、截图 PNG；
@@ -993,7 +997,7 @@ func (wv *WebView) SetResourcePolicy(p ResourcePolicy)
 | 验收 | 单测：`webkit/media_resource_policy_test.go`（`DenyExternal` 拒 file/rel、`data:` 恒放行、`http(s)`/`blob` 恒拒、`AllowHostResolved` 命中放行/未命中拒、相对引用两轮询问、`AllowAll` 与运行时切档）＋ `app/mediaaccess_test.go`（未装配即拒绝、策略驱动、切档不读旧缓存、resolver 命中/未命中、引擎侧接线）；探针：`-media-update-baseline` 重生成后**连续两次**全量跑均「与基线一致（无等级下降）」；全量 `go test ./...` 失败清单不增（仍只有 webkit 3 个 pre-existing） |
 | 兼容性（先查后改） | 全仓排查实际宿主：`cmd/browser`、`cmd/gouide`、`dev/probes/window_test` 用 `NewWebView()`（ModeBrowser → 默认 `AllowAll`）**不受影响**；`examples/`、`ui/` 无媒体装配；`dev/probes/idepage*` 是压测页、无媒体；**`cmd/psai` 主宿主**（ModeToolkit → 默认 `DenyExternal`）的 A0/A1/A2 自检要读 `_temp/mediaverify` 的 `file://` 样本 ⇒ **显式声明** `SetResourcePolicy(AllowAll)`（自检段内切档、结束**立即恢复**，其余判据仍在原档位下跑）。**契约（新增）**：需要本地媒体的宿主**必须显式声明**策略（`AllowHostResolved` 或 `AllowAll`）——`data:` 与 resolver 命中的引用不需要 |
 | 取舍依据（选项 1 / 2 / 3，含反方观点） | **选项 1（本轮采纳）**：媒体并入同一门禁——「收紧而非放松」，与既有纪律一致（§9.4 的 SVG 缓存绕过是先例：那次也是**改实现**而不是改文档），且不动任何既有判据口径。**选项 2**：把「宿主注入 = 宿主授权」写成显式决策（宿主既然自己解码，就不该再受资源策略约束）——**反方观点确有道理**：媒体字节从不进引擎，读盘的是宿主自己的进程，「引擎的门禁」对宿主自己的 IO 本无强制力；但该观点解释不了**同一个宿主**（`cmd/psai`/`app`）在 `DenyExternal` 下对 `<img>` 严格拒绝、对媒体却放行的**自相矛盾**，也无法让「安全默认」覆盖新的资源类型（策略的意义正是「宿主没表态时不读盘」）。**选项 3**：折中（只拦元数据、授权后放行帧/PCM）——语义更细，但需新造「媒体授权」概念，且 `<video>` 的元数据与首帧几乎同时发生，拆分不带来实际保护、只多一层状态。反方观点保留于此，供日后回溯 |
-| 探测伪影（第 8 处的根本解法方向） | 抖动修法已连续多次一致（判据未放宽），但「一遇抖动就调采样参数」已累积到第 8 处，**补丁式累积值得警惕**：根本解法是**按样本自己声明的帧时长驱动采样**（步长取「帧时长的非整数倍 + 抖动」并覆盖一个完整循环周期），而不是继续调全局采样参数 |
+| 探测伪影（第 8 处）——**根本解法已落地**（2026-10-07，Q7-C） | 抖动修法虽连续多次一致（判据未放宽），但「一遇抖动就调采样参数」已累积到第 8 处，**补丁式累积值得警惕**：根本解法是**按样本自己声明的帧时长驱动采样**。**本轮已落地**：新增 `mediaAnimSteps(man)`——对每个**不同周期** P = Σ `Delays`（manifest 里早有此字段，探针此前完全没用它）生成 3 个步长 P×r（r ∈ {0.37, 0.61, 0.83}，互不相同且刻意避开 1/2、1/3、2/3 这类对称点——否则两帧样本互换相位后又落回同帧），各叠加互不相同的抖动，再按周期**轮转排列**；窗口总长 ≈2.1s，远大于最长周期（`anim-2frames.webp` 的 400ms）⇒ 覆盖完整循环周期。旧的「固定基步长 130/190ms」退为**无动画样本时的回退分支**。判据不变（`framesDiffer` 仍是「任意两帧不同」），真静止样本不受影响。**实测的四种周期**：`anim-3frames-rgb`/`anim-noloop` 300ms、`anim-uneven-delay` **350ms**（旧口径锁相的那个）、`anim-2frames.webp` 400ms。**验收**：`cmd/psai -media` 连续 **3 次**全量跑均「与基线一致（无等级下降）」，**384 条等级零变化**（三次报告逐格比对）。⚠ **不含**截图 `matrix-*.png` 的帧相位抖动（另一来源，见 §6.2 副作用②） |
 
 > **挂账登记（2026-10-07，已拍板：方案 Q5-A「挂账」）**：本表说的「一份判定、两处执行」是
 > `loadExternalResource`（`webkit/`，图片/样式/脚本的字节路径）与 `MediaResourceAllowed`
@@ -1018,7 +1022,7 @@ func (wv *WebView) SetResourcePolicy(p ResourcePolicy)
 | **Q4** | `wb-ui/webkit` 3 个 pre-existing 失败 | 单测基线**非全绿**，影响「验收不新增失败」的解读 | **B（只读侦查）** | ✅ **侦查完成、未修**。三条各给出测试名/断言原文/根因假设/风险/建议：①按钮字形只命中一行像素 ⇒ 测量脆性；②`14.8281/13.0 = 1.1406` = Segoe UI 的 normal 行距 ⇒ 断言口径过窄；③`:checked` 读 attribute 而非 IDL 状态（②③ 均指向「测试期望/口径」而非引擎缺陷） | `docs/TECH_DEBT.md`「三条失败的逐条侦查」 |
 | **Q5** | 门禁是否重构 | `loadExternalResource` 与 `MediaResourceAllowed` 是**两份平行判定**，有漂移风险 | **A（挂账）** | ✅ **已登记挂账、未重构** | §9.9「挂账登记」 |
 | **Q6** | 单测纪律（每轮是否纳入全量 `go test`） | 只跑定向测试可能漏掉回归 | **B（每轮纳入）+ D（固化入口）** | ✅ **已完成**。`cgo_env.bat` 新增 `test-all`，并**强制 `GOWORK=off`**（修掉 workspace 损坏时 `go list -m` 静默失败）；本轮实跑 **ok 28 包 + FAIL 1 包（`wb-ui/webkit`，3 用例）+ 67 无测试 = 96 包**，**失败清单未增** | §6.4「环境前提」、§8.3 第 4 条 |
-| **Q7** | 判据相关两处 | ① `corrupt.png` 在 `DenyExternal` 下 L0 的**备注文案**与实际路径不符（判定行为本身正确）；② 采样伪影已累积到第 8 处 | **B（只修 ① 备注文案）** | ✅ **①已完成**：`judgeCell` 的 `broken` 分支改为**优先** `mediaDenialNote` ⇒ `DenyExternal × file/rel` 的 corrupt.png 备注从「失败路径……契约缺陷」更正为「资源策略 deny-external 拒绝该引用（预期，非缺陷）」；重跑 `-media` 后**等级全 L0 不变、与基线一致**。②**未做**（属另一轮） | §10 本行 + `cmd/psai/mediaprobe.go` 的 `judgeCell` |
+| **Q7** | 判据相关两处 | ① `corrupt.png` 在 `DenyExternal` 下 L0 的**备注文案**与实际路径不符（判定行为本身正确）；② 采样伪影已累积到第 8 处 | **B（只修 ① 备注文案）** | ✅ **①已完成**：`judgeCell` 的 `broken` 分支改为**优先** `mediaDenialNote` ⇒ `DenyExternal × file/rel` 的 corrupt.png 备注从「失败路径……契约缺陷」更正为「资源策略 deny-external 拒绝该引用（预期，非缺陷）」；重跑 `-media` 后**等级全 L0 不变、与基线一致**。②**已另轮落地**（Q7-C，2026-10-07）：`mediaAnimSteps` 按样本声明的帧时长驱动连拍步长，连续 3 次全量跑 384 条等级零变化（见 §9.9「探测伪影」行） | §10 本行 + `cmd/psai/mediaprobe.go` 的 `judgeCell` / `mediaAnimSteps` |
 | **Q8** | 文档剩余范围 | 收敛到两项，本轮已按授权就地处置 | — | ✅ 原地处置（细目见下）：**丙10 已消解（2026-10-07 按实施口径修订决策 5）**、**乙4 已标注待确认** | §3.4、§0.2 |
 
 > **Q8 细目（两项的处置依据）**
